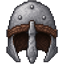
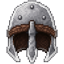
Rekey the open set with one colour-to-alpha.
The attempt is not accepted. Hard edges went soft, and the arrow still has lines on the shaft and rear. The notes are on design/tasks/rekey-assets.md.

Changed region(s): [[0.0938, 0.0, 0.9062, 1.0]]

diff --git a/tools/imglib/key.py b/tools/imglib/key.py
@@ -234,13 +234,17 @@ def remap_plate(im: Image.Image, tol: float = LAB_TOL, wand_dist: float = 48.0, 
             "pocket_frac": pocket_frac,
         }
         return src, Image.fromarray(vis, "RGBA"), info
-    plate, refs, _d = plate_mask(rgb, refs=found, alpha=arr[:, :, 3], tol=tol, rgb_wand=wand_dist, pocket_frac=pocket_frac)
+    plate, refs, dist = plate_mask(rgb, refs=found, alpha=arr[:, :, 3], tol=tol, rgb_wand=wand_dist, pocket_frac=pocket_frac)
     amt, pick = plate_amount(rgb, refs)
+    # Flat plate (near a border ref) becomes exact #FF00FF. A farther plate-coloured mix
+    # is the glow. Shift it onto the key so colour-to-alpha can keep it. Do not flatten it.
+    solid = plate & (dist <= float(tol) * 1.25)
+    mix = plate & ~solid
     band = dilate(plate, edge) & ~plate
-    hit = band & (amt >= edge_min)
+    hit = (band | mix) & (amt >= edge_min)
     shifted = np.clip(np.rint(rgb.astype(np.float32) + amt[..., None] * (np.array(KEY_RGB, np.float32) - pick)), 0, 255).astype(np.uint8)
     arr[hit, :3] = shifted[hit]
-    arr[plate, :3] = KEY_RGB
+    arr[solid, :3] = KEY_RGB
     arr[:, :, 3] = 255
     vis = np.zeros((h, w, 4), dtype=np.uint8)
     vis[:, :, 3] = 255
@@ -460,22 +464,22 @@ def punch(im: Image.Image, spill_flood: bool = False) -> Image.Image:
 
 
 def key_to_alpha(im: Image.Image, spill_flood: bool = True, tol: float = LAB_TOL, refs=None) -> Image.Image:
-    """Colour-to-alpha against the border plate. The contract is `chroma_alpha` against that key.
+    """One colour-to-alpha against the nearest border-sampled plate key.
 
-    `chroma_alpha` turns a plate mix into partial alpha of the subject colour.
-    `c2a` then snaps alpha under 10 to 0 and over 242 to 255. That snap is the hard matte.
-    This body still walks a fringe and subtracts red-and-blue-above-green. That subtract
-    deleted the veil on the 2026-10-09 open set. Do not add another walk, subtract, or snap.
-    `spill_flood` stays so callers keep one signature. `tol` is the Lab distance of solid
-    plate. `refs` pins the plate colours.
+    Opacity is `chroma_alpha`. The drawn RGB stays, so soft shading and a pale glow stay
+    in the art instead of being rebuilt into a green unmix. Solid plate, including a
+    one-level quantize of the key, becomes transparent black. No fringe walk, no
+    red-and-blue-above-green subtract, and no snap of alpha under 10 or over 242.
+    `spill_flood` and `tol` stay on the signature and do not switch paths. `refs` pins
+    the plate colours.
     """
+    _ = (spill_flood, tol)
     src = im.convert("RGBA")
     arr = np.array(src, dtype=np.uint8, copy=True)
     rgb = arr[:, :, :3]
     src_a = arr[:, :, 3]
-    _ = spill_flood
     if refs is None:
-        found, foreground = border_comparison(rgb)
+        found, _foreground = border_comparison(rgb)
         if found is None:
             exact = (rgb[:, :, 0] >= 250) & (rgb[:, :, 1] <= 8) & (rgb[:, :, 2] >= 250)
             if not np.any(exact):
@@ -484,50 +488,31 @@ def key_to_alpha(im: Image.Image, spill_flood: bool = True, tol: float = LAB_TOL
         refs = list(found)
     else:
         refs = [tuple(int(v) for v in r) for r in refs]
-        _found, foreground = border_comparison(rgb)
-    amount, pick = plate_amount(rgb, refs)
-    dist = delta_e(rgb, refs)
-    hue, sat, val = hsv(rgb)
-    red = rgb[:, :, 0].astype(np.int16)
-    green = rgb[:, :, 1].astype(np.int16)
-    blue = rgb[:, :, 2].astype(np.int16)
-    spill = np.maximum(0, np.minimum(red, blue) - green)
-    clearly = (dist <= float(tol)) | (amount >= 0.88)
-    pale = (
-        (spill >= 12)
-        & (sat < 0.22)
-        & (val > 0.70)
-        & (hue_gap(hue, PLATE_HUE) <= 30.0)
-        & dilate(clearly, 1)
-        & ~clearly
-    )
-    clear = clearly | pale | (src_a == 0)
-    foreground = list(dict.fromkeys(list(foreground) + _edge_foreground(rgb, clear)))
-    cand = ~clear & (spill >= 36) & ((hue_gap(hue, PLATE_HUE) <= 40.0) | (amount >= 0.35))
-    fringe = _touching(cand, clear)
-    # Light plate mixes sit a short way in from the plate: red and blue both above green,
-    # and blue at least near red. A red-dominant colour (maroon, leather) is the subject.
-    radius = max(4, min(rgb.shape[0], rgb.shape[1]) // 32)
-    red_dominant = red > (blue + 30)
-    mild = dilate(clear, radius) & ~clear & (spill >= 12) & ~red_dominant
-    # A light veil (the wisp's outer purple, the shopkeep glow) can be many pixels
-    # thick. Walk it while it stays light and not a red subject colour.
-    light = ~clear & (spill >= 12) & ~red_dominant & (val >= 0.55)
-    # A dark plate mix on the outline (black or feather edge cut with magenta).
-    # Hue stays tight so a purple drawn inside the art is not walked into.
-    dark_plate = ~clear & (spill >= 40) & ~red_dominant & (hue_gap(hue, PLATE_HUE) <= 22.0)
-    fringe = fringe | mild | _touching(light | dark_plate, clear)
-    out = arr.copy()
-    out[clear] = 0
-    if np.any(fringe):
-        recon, alpha = _fringe_color(rgb, pick, amount, foreground)
-        alpha = np.clip(np.rint(alpha.astype(np.float32) * (src_a.astype(np.float32) / 255.0)), 0, 255).astype(np.uint8)
-        # A light tint on a solid pixel loses the plate colour and stays opaque.
-        tint = fringe & (alpha >= 230)
-        out[tint, :3] = recon[tint]
-        soft = fringe & (alpha >= 8) & (alpha < 230)
-        out[soft, :3] = recon[soft]
-        out[soft, 3] = alpha[soft]
-        out[fringe & (alpha < 8)] = 0
-    out[out[:, :, 3] == 0] = 0
+    p = rgb.astype(np.float32) / 255.0
+    opacities = []
+    dists = []
+    for ref in refs:
+        k = np.asarray(ref, dtype=np.float32) / 255.0
+        opacities.append(chroma_alpha(p, k))
+        dists.append(delta_e(rgb, [ref]))
+    dist = np.stack(dists)
+    pick = dist.argmin(axis=0)
+    opacity = np.take_along_axis(np.stack(opacities), pick[None], axis=0)[0]
+    picked_dist = np.take_along_axis(dist, pick[None], axis=0)[0]
+    keys = np.asarray(refs, dtype=np.int16)[pick]
+    near_key = np.max(np.abs(rgb.astype(np.int16) - keys), axis=2) <= 1
+    # `tol` is the Lab distance of solid plate. A mix sits farther out and keeps partial alpha.
+    opacity = np.where(near_key | (picked_dist <= float(tol)), 0.0, opacity)
+    # The interior is the drawing. A round shell against the plate stays partial (the glow).
+    # A square dilate left magenta blocks. Pixels that are still plate-coloured stay partial.
+    shell = max(8, min(rgb.shape[0], rgb.shape[1]) // 24)
+    if HAVE_CV2:
+        inside = cv2.distanceTransform((opacity > 0).astype(np.uint8), cv2.DIST_L2, 5)
+        spill = np.minimum(rgb[:, :, 0].astype(np.int16), rgb[:, :, 2].astype(np.int16)) - rgb[:, :, 1].astype(np.int16)
+        opacity = np.where((opacity > 0.35) & (inside > float(shell)) & (spill < 36), 1.0, opacity)
+    new_a = np.clip(np.rint(src_a.astype(np.float32) * opacity), 0, 255).astype(np.uint8)
+    out = np.zeros_like(arr)
+    visible = new_a > 0
+    out[visible, :3] = rgb[visible]
+    out[visible, 3] = new_a[visible]
     return Image.fromarray(out, "RGBA")

diff --git a/tools/imglib/geom.py b/tools/imglib/geom.py
@@ -1,6 +1,7 @@
 """Geometry helpers: bbox, crop, fit, scale, flip, grid split.
 
 Nearest-neighbour is only for sizing up. Sizing down uses premultiplied Lanczos.
+A heavy shrink also keeps a real near-white run (a string) that the kernel would average away.
 """
 from __future__ import annotations
 
@@ -8,15 +9,7 @@ import numpy as np
 from PIL import Image
 
 
-def resize_rgba(im: Image.Image, size: tuple[int, int]) -> Image.Image:
-    """Scale an RGBA image. Nearest when both sides grow. Premultiplied Lanczos when either side shrinks."""
-    im = im.convert("RGBA")
-    size = (max(1, int(size[0])), max(1, int(size[1])))
-    if size == im.size:
-        return im
-    pure_up = size[0] >= im.size[0] and size[1] >= im.size[1]
-    if pure_up:
-        return im.resize(size, Image.Resampling.NEAREST)
+def _lanczos_down(im: Image.Image, size: tuple[int, int]) -> Image.Image:
     arr = np.array(im, dtype=np.float32)
     alpha = arr[:, :, 3:4] / 255.0
     prem = arr.copy()
@@ -29,6 +22,99 @@ def resize_rgba(im: Image.Image, size: tuple[int, int]) -> Image.Image:
     rgb[nz] = np.clip(scaled[nz, :3] * (255.0 / np.maximum(out_a[nz], 1.0)), 0, 255)
     scaled[:, :, :3] = rgb
     return Image.fromarray(np.clip(np.rint(scaled), 0, 255).astype(np.uint8), "RGBA")
+
+
+def _subject_cell(im: Image.Image, scale: int = 8) -> int:
+    """Pixel size of the subject, or 1 when the subject is not a flat upscale of that cell."""
+    arr = np.array(im.convert("RGBA"))
+    h, w = arr.shape[:2]
+    if h < scale * 8 or w < scale * 8:
+        return 1
+    hh, ww = h - (h % scale), w - (w % scale)
+    block = arr[:hh, :ww].reshape(hh // scale, scale, ww // scale, scale, 4)
+    subject = block[:, :, :, :, 3].max(axis=(1, 3)) > 128
+    if int(subject.sum()) < 20:
+        return 1
+    rgb = block[:, :, :, :, :3].astype(np.int16)
+    spread = (rgb.max(axis=(1, 3)) - rgb.min(axis=(1, 3))).max(axis=2)
+    if float(np.median(spread[subject])) > 6:
+        return 1
+    return scale
+
+
+def _box_reduce(im: Image.Image, scale: int) -> Image.Image:
+    w, h = im.size
+    ww, hh = w - (w % scale), h - (h % scale)
+    arr = np.array(im.crop((0, 0, ww, hh)), dtype=np.float32)
+    alpha = arr[:, :, 3:4] / 255.0
+    prem = arr.copy()
+    prem[:, :, :3] *= alpha
+    cell = prem.reshape(hh // scale, scale, ww // scale, scale, 4).mean(axis=(1, 3))
+    out_a = cell[:, :, 3:4]
+    rgb = np.zeros_like(cell[:, :, :3])
+    nz = out_a[..., 0] > 0.5
+    rgb[nz] = np.clip(cell[nz, :3] * (255.0 / np.maximum(out_a[nz], 1.0)), 0, 255)
+    cell[:, :, :3] = rgb
+    return Image.fromarray(np.clip(np.rint(cell), 0, 255).astype(np.uint8), "RGBA")
+
+
+def _keep_light_run(src: Image.Image, fitted: Image.Image) -> Image.Image:
+    """Put back a near-white run when a heavy shrink averaged it away.
+
+    A solid mass of bright pixels (a face, a highlight) is left to the Lanczos result.
+    This is not an edge lift: only a bin that collected a real run is rewritten.
+    """
+    sw, sh = src.size
+    dw, dh = fitted.size
+    if sw <= dw or sh <= dh:
+        return fitted
+    bin_area = (sw / float(dw)) * (sh / float(dh))
+    if bin_area < 150:
+        return fitted
+    arr = np.array(src)
+    light = (arr[:, :, :3].min(axis=2) > 140) & (arr[:, :, 3] > 80)
+    if int(light.sum()) < 4:
+        return fitted
+    ys, xs = np.nonzero(light)
+    fx = np.clip((xs * (dw / float(sw))).astype(np.int32), 0, dw - 1)
+    fy = np.clip((ys * (dh / float(sh))).astype(np.int32), 0, dh - 1)
+    lin = fy * dw + fx
+    count = np.bincount(lin, minlength=dw * dh)
+    out = np.array(fitted)
+    order = np.argsort(lin)
+    lin_s = lin[order]
+    cols = arr[ys, xs][order]
+    cuts = np.flatnonzero(np.diff(lin_s)) + 1
+    starts = np.r_[0, cuts]
+    ids = lin_s[starts]
+    for gid, start, end in zip(ids, starts, np.r_[cuts, len(lin_s)]):
+        if count[gid] < 4:
+            continue
+        med = np.median(cols[start:end], axis=0)
+        y, x = divmod(int(gid), dw)
+        out[y, x, :3] = med[:3]
+        out[y, x, 3] = max(int(out[y, x, 3]), 210)
+    return Image.fromarray(out, "RGBA")
+
+
+def resize_rgba(im: Image.Image, size: tuple[int, int]) -> Image.Image:
+    """Scale an RGBA image. Nearest when both sides grow. Premultiplied Lanczos when either side shrinks."""
+    im = im.convert("RGBA")
+    size = (max(1, int(size[0])), max(1, int(size[1])))
+    if size == im.size:
+        return im
+    pure_up = size[0] >= im.size[0] and size[1] >= im.size[1]
+    if pure_up:
+        return im.resize(size, Image.Resampling.NEAREST)
+    source = im
+    cell = _subject_cell(im)
+    if cell > 1:
+        im = _box_reduce(im, cell)
+        if im.size == size:
+            return _keep_light_run(source, im)
+        if im.size[0] <= size[0] and im.size[1] <= size[1]:
+            return _keep_light_run(source, im.resize(size, Image.Resampling.NEAREST))
+    return _keep_light_run(source, _lanczos_down(im, size))
 
 
 def bbox(im: Image.Image, alpha_min: int = 1):

diff --git a/tools/imglib/selftest.py b/tools/imglib/selftest.py
@@ -55,10 +55,15 @@ def run() -> list[tuple[str, bool, str]]:
     lip[59, 20:60] = (150, 40, 70, 255)
     lip[60, 20:60] = (240, 200, 220, 255)
     keyed = np.array(key.key_to_alpha(Image.fromarray(lip)))
-    body_ok = tuple(int(v) for v in keyed[40, 40]) == (40, 90, 50, 255)
-    cloth_ok = tuple(int(v) for v in keyed[59, 30]) == (150, 40, 70, 255)
-    lip_gone = int(keyed[60, 30, 3]) == 0 and int(keyed[0, 0].sum()) == 0
-    out.append(("key light-pink lip", body_ok and cloth_ok and lip_gone, f"body {keyed[40, 40].tolist()} cloth {keyed[59, 30].tolist()} lip {keyed[60, 30].tolist()}"))
+    # Drawn RGB stays. The light-pink row is a plate mix and stays partial alpha.
+    plate_ok = int(keyed[0, 0, 3]) == 0 and int(keyed[0, 0].sum()) == 0
+    body = keyed[40, 40]
+    cloth = keyed[59, 30]
+    lip_px = keyed[60, 30]
+    body_ok = tuple(int(v) for v in body[:3]) == (40, 90, 50) and int(body[3]) > 200
+    cloth_ok = tuple(int(v) for v in cloth[:3]) == (150, 40, 70) and int(cloth[3]) > 100
+    lip_partial = tuple(int(v) for v in lip_px[:3]) == (240, 200, 220) and 0 < int(lip_px[3]) < 255
+    out.append(("key light-pink lip", plate_ok and body_ok and cloth_ok and lip_partial, f"body {body.tolist()} cloth {cloth.tolist()} lip {lip_px.tolist()}"))
     wood = np.zeros((30, 40, 4), np.uint8)
     wood[:, :] = (0, 0, 0, 255)
     wood[8:22, 8:32] = (120, 80, 40, 255)

diff --git a/design/tasks/rekey-assets.md b/design/tasks/rekey-assets.md
@@ -22,7 +22,7 @@ The female face was distorted by the resize. A chunk is still missing from her r
 
 The proof is the open set. She will review a full repack later. Checklist items she did not repeat were already fixed. Do not reopen them.
 
-This session wrote the open-set live PNGs so you can see the attempt. They are not accepted.
+The 2026-10-09 pack session wrote the open-set live PNGs from one colour-to-alpha. Vira called that attempt close. It is not accepted. Her notes are in Did not work.
 
 ## Q0 answers so far
 - result look: One soft key, reusing the source plates. The same logic has to work on every asset. Soft edges are likely on many of them, but not all. Proof is the open set. A full repack comes later, after she says this set is right.
@@ -40,7 +40,7 @@ This session wrote the open-set live PNGs so you can see the attempt. They are n
 - Translucent areas on the plate stay as partial alpha. Shopkeep glow, the wisp outer layer, arrow shading, and the orb border were deleted. That is a failure. The orb border was the glow and was supposed to come back as alpha.
 - Solid outlines drawn on the plate survive. The hatchet is mostly good and is missing that outline. Other stills lost the same solid edge.
 - The longbow string must read as one string. Sparkles are not a string.
-- Female idle_down still has chunks missing from the arms.
+- 2026-10-09, after the colour-to-alpha attempt: close, not accepted. Weird lines remain around the shaft and the rear of the arrow. Lots of edges got way too soft, especially edges that were clearly meant to be hard. Hard edges on the plate stay hard. The next session fixes those two and does not call the set done.
 - Resume in a fresh session.
 
 ## Chosen surfaces, in order
@@ -57,50 +57,39 @@ This session wrote the open-set live PNGs so you can see the attempt. They are n
 Do not reopen: assets/fx/dummy.png, assets/sprites/buildings/guild.png, assets/sprites/buildings/guild_reception.png, assets/sprites/buildings/stall.png, assets/sprites/props/anvil.png, assets/sprites/props/fence.png, assets/ui/gear/pickaxe.png, and the male player frames.
 
 ## Ledger
-Decisions I made that were yours: all eight wisp idles are this one keyed plate. Fringe colour is a despill (subtract min(R, B) - G from R and B), a light-veil walk, and a dark outline only within 22 degrees of the plate. Red-dominant colours were left as drawn. Fit ignores alpha below 24. Canvases stayed 128, orb 48, gear 64. Downscale is premultiplied Lanczos. Hairline lift only where a thin solid line is not the edge of a solid mass.
-Assumptions carried from memory or docs: stills resolve through the manifest in `_src`. slot_legs.jpg is the greaves plate. art-pack.md soft alpha and high-quality downscale still stand. Palette snap was not applied. Her 2026-10-09 review overrides the claim that the veil was kept.
-Also changed: tools/imglib/key.py (key_to_alpha, border_comparison, _fringe_color). tools/imglib/geom.py (resize_rgba hairline). Live PNGs in Chosen surfaces, including all eight wisp idles. This task file. No `.gd` files. `_src` was not written. Previews under `_logs/rekey-look/` (gitignored). Callers of key_to_alpha not run: pack_locomotion.py, pack_walk.py, process_gear_icons.py, rekey_stills.py, process_session_sprites.py, match_keyed_region.py. Callers of fit_box not run: pack_facing_fix.py, pack_p4_enemies.py, process_gear_icons.py, process_gloam.py, process_world.py, process_enemies.py.
+Decisions I made that were yours: drawn RGB stays (the unmix turned shading green). Pixels deeper than about a 24th of the short side from the plate become opaque, and plate-coloured pixels stay partial. Remap flattens only plate near a border reference. A heavy shrink puts back a near-white run. Canvases stayed 128, orb 48, gear 64. All eight wisp idles are this one plate.
+Assumptions carried from memory or docs: stills resolve through the manifest in `_src`. slot_legs.jpg is the greaves plate. One shared key. Source plates are the reference. Her 2026-10-09 notes above override any claim that this attempt is accepted.
+Also changed: tools/imglib/key.py (`key_to_alpha`, `remap_plate`). tools/imglib/geom.py (`resize_rgba`). tools/imglib/selftest.py (the light-pink lip keeps partial alpha). design/art-pack.md still-rekey section. Live PNGs in Chosen surfaces, including all eight wisp idles. This task file. No `.gd` files. `_src` was not written. Previews under `_logs/rekey-look/` are gitignored. Callers of key_to_alpha not run: pack_locomotion.py, pack_walk.py, process_gear_icons.py, rekey_stills.py, process_session_sprites.py, match_keyed_region.py. Callers of fit_box not run: pack_facing_fix.py, pack_p4_enemies.py, process_gear_icons.py, process_gloam.py, process_world.py, process_enemies.py, sprite_pipeline.py.
 
 ## Baselines for the chosen surface
-Current live stills, reviewed by Vira on 2026-10-09. Not accepted.
+Live stills from the 2026-10-09 colour-to-alpha attempt. Vira called the set close. Not accepted.
 
-- assets/sprites/npcs/shopkeep.png. Slightly improved. Huge sections of the translucent glow are missing.
-- assets/sprites/enemies/wisp/idle_up.png, and the other seven idles (same picture). Slightly improved. Huge sections of the translucent outer layer are missing.
-- assets/fx/arrow.png. The translucent shading is gone.
-- assets/sprites/props/hp_orb.png. The translucent border is gone. That border was the glow and was supposed to return as alpha.
-- assets/sprites/player/female/idle_down.png. Chunks of the arms are missing.
-- assets/ui/gear/head.png. Blurry.
-- assets/ui/gear/hatchet.png. Mostly good. Missing the solid outline from the plate.
-- assets/ui/gear/longbow.png. The string reads as sparkles.
-- assets/ui/gear/slot_legs.png. Not called out in this review.
+- assets/fx/arrow.png. Translucent shading is back. Weird lines remain around the shaft and the rear.
+- Edges that are hard on the plate went too soft on many of these stills. That is the other open defect. It is not limited to one file.
+- assets/sprites/npcs/shopkeep.png, the wisp idles, hp_orb.png, female idle_down.png, head.png, hatchet.png, longbow.png, and slot_legs.png were in the same review. She did not name a separate defect on each. Do not treat silence as acceptance.
 
-The 2026-10-09-0250 worktree notes (magenta gap, purple wisp edge, pink arrow fringe, partial hatchet) were the attempt before this one.
+The attempt before this one had lost the glow, the orb border, the hatchet outline, the bowstring, and chunks of the female's arms, and head.png was blurry. Do not return to that fringe subtract.
 
 ## Files and functions to touch
-- Next session, in this order. `python tools/show_func.py tools/imglib/key.py chroma_alpha`, then `c2a`, then `key_to_alpha`. `chroma_alpha` is the colour-to-alpha. `c2a` snaps alpha under 10 to 0 and over 242 to 255. That snap is the hard matte. Do not use it. `key_to_alpha` still walks a fringe and subtracts red-and-blue-above-green, and that subtract deleted the veil. Make `key_to_alpha` one `chroma_alpha` against the border-sampled key, and keep the partial alpha. Do not add another fringe walk, subtract, or resize hairline.
+- Next session, in this order. `python tools/show_func.py tools/imglib/key.py key_to_alpha`, then `remap_plate`. `key_to_alpha` is already one `chroma_alpha`. The drawn RGB stays. Pixels deeper than `shell` from the plate are forced opaque, and that shell is what softened edges that should be hard. `remap_plate` shifts plate-coloured mixes instead of flattening them, and that shift is a suspect for the lines on the arrow shaft and rear. `c2a` snaps alpha under 10 to 0 and over 242 to 255. Do not use it. Do not bring back a fringe walk, a red-and-blue-above-green subtract, or a resize hairline.
 - `python tools/rekey_preview.py`, then `python tools/show_png.py` on the paths it prints. The counts are the check. A picture description is not a pixel count. `partial` is the veil kept as alpha. `plate_opaque` is solid plate left in the art. `halo_cropped` is faint alpha `fit_box` drops at its default floor of 24. Pass `alpha_min` lower when that glow is the result. This tool stays in `tools/`. Do not write another preview under `_logs/agent-py/`.
 - No play-camera baseline and no `--visual` on the gate. The start card says NO PLAY CAMERA for this job. Q0 is already answered. Open questions are none.
 - Do not match the live PNGs. They are the rejected attempt. The source plates are the reference. Do not call `rekey_stills.prep`. It nearest-upscales a small plate, and that distorted the female face.
-- tools/imglib/key.py: key_to_alpha. Solid plate becomes transparent black. The translucent veil must stay as partial alpha. The despill that subtracts min(R, B) - G deleted that veil on shopkeep, the wisp, the arrow, and the orb. Do not bring back the RGB invert. Do not delete glow to make the selftest clean. Solid outlines on the plate have to survive.
-- tools/imglib/geom.py: resize_rgba. Nearest only when both sides grow. Sizing down stays high quality, and head.png must not come out blurry. The hairline lift that sparkled the bowstring is gone. Do not put it back. fit_box crops alpha below `alpha_min` (default 24). Pass a lower floor when that faint alpha is the glow. Do not throw the glow away.
+- tools/imglib/key.py: key_to_alpha and remap_plate. Keep the veil as partial alpha and keep hard plate edges hard. The shell that forces only the deep interior opaque is what softened those edges. The remap shift is a suspect for the arrow lines. Do not bring back the RGB invert or the fringe subtract. Do not delete glow to make the selftest clean.
+- tools/imglib/geom.py: resize_rgba. Nearest only when both sides grow. Sizing down stays high quality. The hairline lift that sparkled the bowstring stays out. The near-white run keep is only for a run the shrink would average away. fit_box crops alpha below `alpha_min` (default 24). Pass a lower floor when that faint alpha is the glow. Do not throw the glow away.
 - tools/imglib/selftest.py: run `python tools/img_inspect.py selftest` after a key change. It passed. That is not acceptance.
 - The nine live paths above. Write a still only after you have looked at it. She confirms each one.
 - design/art-pack.md if the key contract changes again.
 
 ## Did not work
-`python tools/img_inspect.py selftest` passed (12 checks) after this key change. A passing selftest is not acceptance.
+`python tools/img_inspect.py selftest` passed (12 checks) after the colour-to-alpha change. A passing selftest is not acceptance.
 
-Vira reviewed the open set on blue on 2026-10-09. She does not see the set as fixed. Some stills are slightly improved. None are accepted.
+Vira reviewed the blue previews on 2026-10-09. She called the set close. It is not accepted.
 
-- Hatchet is mostly good. It lacks the solid outline the plate has. Many of these plates have a solid edge, and that outline was lost.
-- Shopkeep and the wisp are missing huge sections of their translucent areas.
-- The bowstring does not read as a string. It looks like sparkles.
-- Chunks of the female's arms are missing.
-- The head looks blurry.
-- The arrow has none of its translucent shading.
-- The orb's translucent areas are completely missing. That border was the glow. It was supposed to come back as alpha.
+- Weird lines remain around the shaft and the rear of the arrow.
+- Lots of edges got way too soft, especially edges that were clearly meant to be hard.
 
-The key cleared plate and subtracted min(R, B) - G on the fringe. That removed the veil instead of storing it as alpha. The hairline lift in resize_rgba broke the string into separate marks. That lift is removed. Do not put it back. Do not call the key done. Do not treat the older lip and JPEG selftest failures as open.
+Do not call the key done. Do not treat the older lip and JPEG selftest failures as open. The fringe subtract and the resize hairline stay out.
 
 ## Open questions
 none. The look, the reference, the open set, and the out-of-bounds list are settled above. Ask only if a discovery changes what she will see.

diff --git a/design/art-pack.md b/design/art-pack.md
@@ -35,9 +35,11 @@ Then the User judges the packed strip. Do not start the next unit until the User
 
 ## Still rekey
 
-The open set is the rekey-assets task. One colour-to-alpha: `tools/imglib/key.py` `chroma_alpha` against the border-sampled key. Strong black, white, and blue border pixels are subject samples. Glow and soft shading stay partial alpha. Solid plate becomes transparent black. `c2a` snaps alpha under 10 to 0 and over 242 to 255. That snap is the hard matte. Do not use it.
+The open set is the rekey-assets task. One colour-to-alpha: `tools/imglib/key.py` `chroma_alpha` against the nearest border-sampled key. Strong black, white, and blue border pixels are subject samples. The drawn RGB stays. Glow and soft shading stay partial alpha. Solid plate, including a one-level quantize of the key and plate within Lab `tol`, becomes transparent black. `c2a` snaps alpha under 10 to 0 and over 242 to 255. That snap is the hard matte. Do not use it.
 
-Do not wrap that in a fringe walk, a subtract of red-and-blue-above-green, or a resize hairline. Those three deleted the veil, the outlines, and the bowstring on 2026-10-09. Do not nearest-upscale the plate before the key. That distorted the female face.
+Pixels deep inside the silhouette (round distance, about a 24th of the shorter side) become opaque so the drawing does not wash out on blue. A plate-coloured pixel stays partial. Remap paints only plate near a border reference. A farther plate-coloured mix is shifted onto the key, not flattened.
+
+Do not wrap the key in a fringe walk, a subtract of red-and-blue-above-green, or a resize hairline. Those three deleted the veil, the outlines, and the bowstring on 2026-10-09. A heavy shrink may put back a near-white run the Lanczos kernel averaged away. That is a run of real pixels, not an edge lift. Do not nearest-upscale the plate before the key. That distorted the female face.
 
 Proof is `python tools/rekey_preview.py`, then `show_png.py` on the paths it prints. The counts are the check. A picture description is not a pixel count. This is not a play-camera shot, and the gate is `run_build_gate.py --batch` with no `--visual`. Do not match the live PNG while the task calls that PNG rejected. The source plate is the reference.
 
